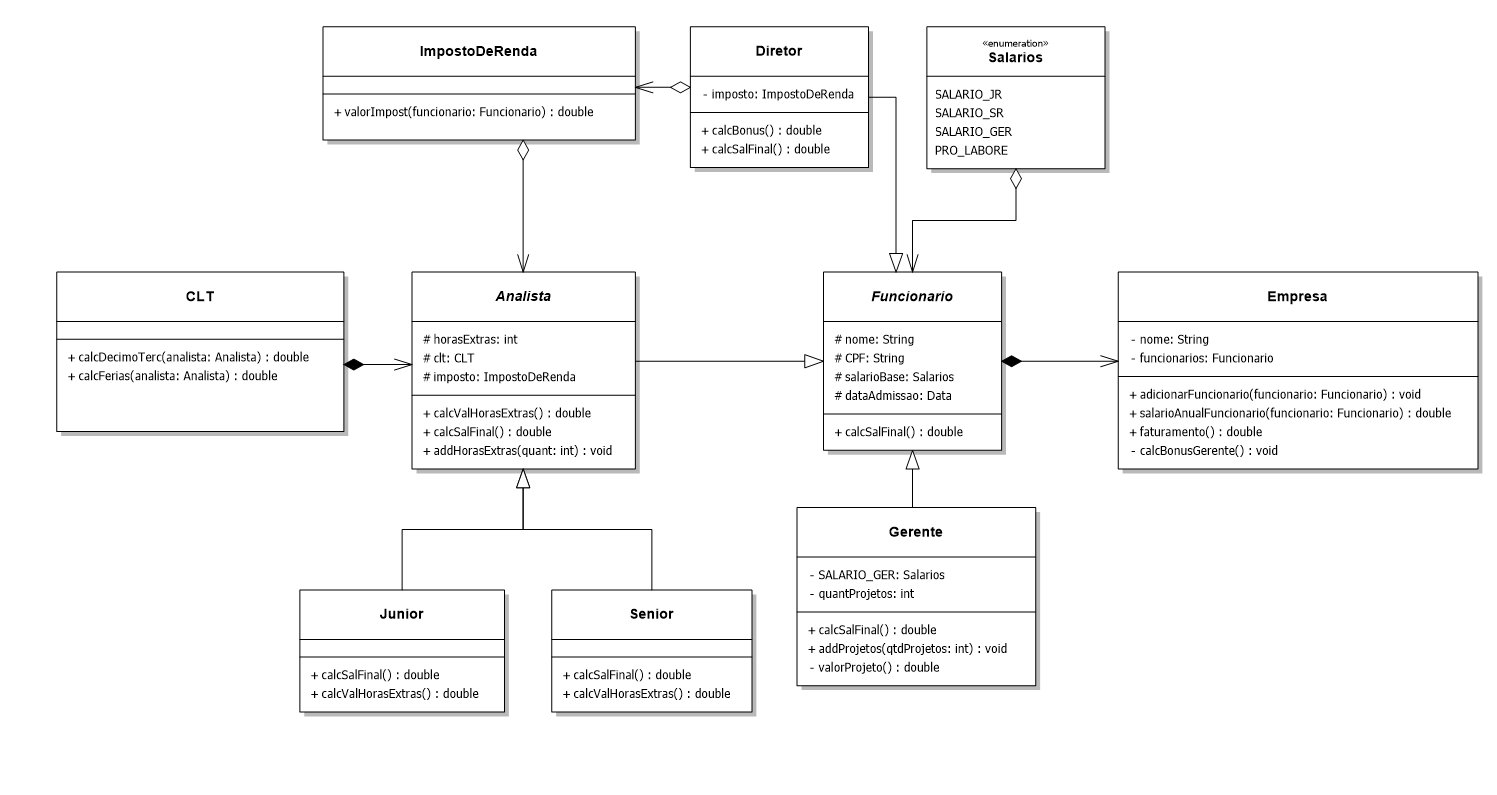
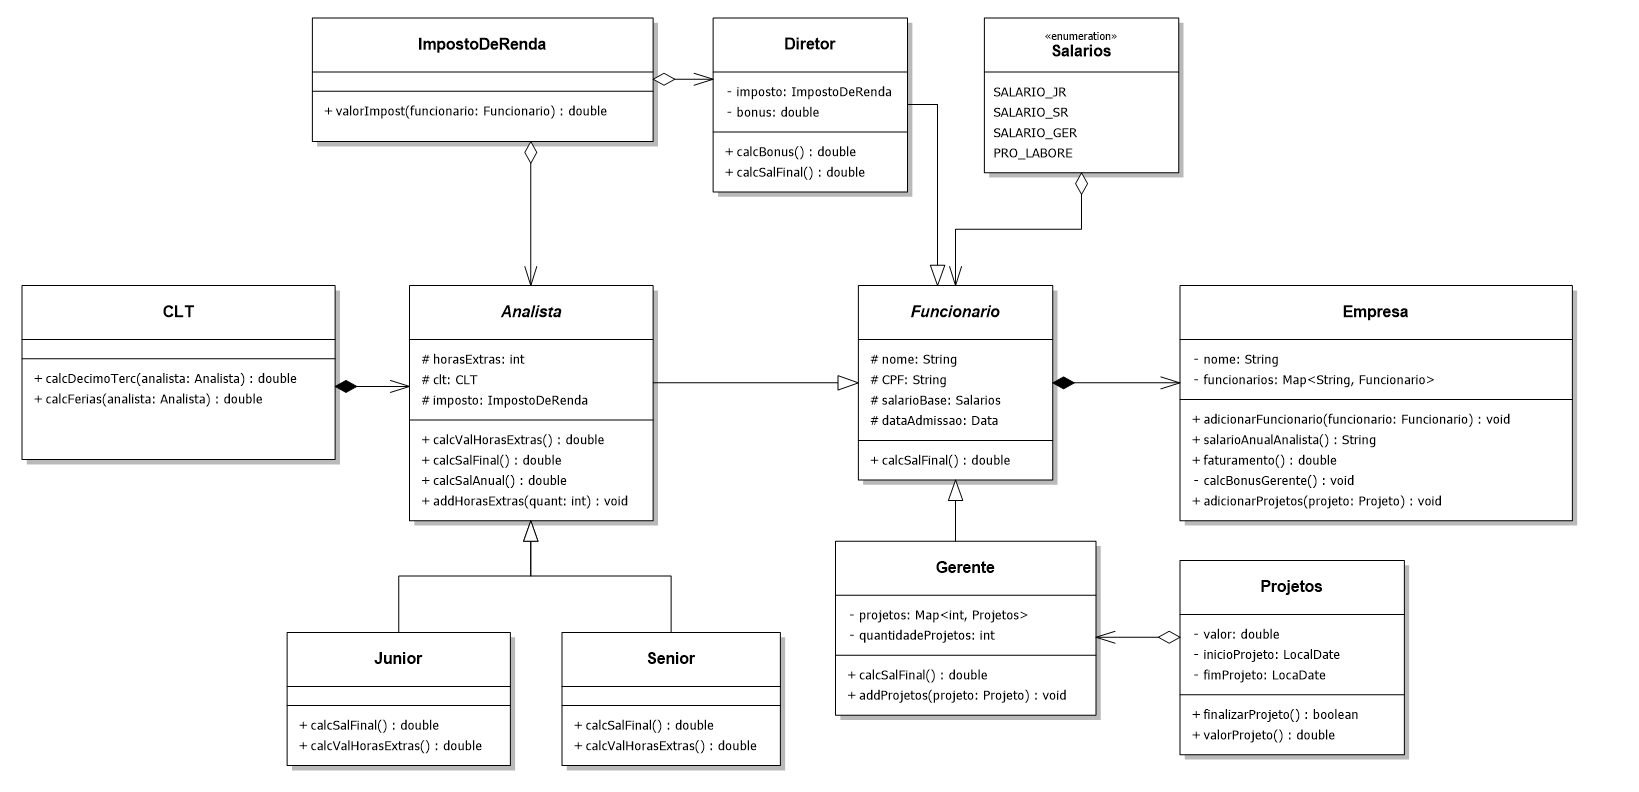
feat:adicionandofuncaoSalarioAnualeCriandoClasseProjeto

Changed region(s): [[0.0, 0.2727, 1.0, 1.0], [0.1844, 0.0303, 0.7682, 0.2727], [0.7682, 0.7273, 0.7989, 0.7576]]

diff --git a/TrabEmpresaSoft/app.java b/TrabEmpresaSoft/app.java
@@ -23,7 +23,7 @@ public class app {
                     exibirMenu(software);
                     break;
                 case 2:
-                    mostrarRelatorios(software);
+                    mostrarRelatorios(software, teclado);
                     break;
                 case 3:
                     System.out.println("Encerrando o programa...");
@@ -103,9 +103,34 @@ public class app {
             System.out.println("Funcionário do tipo Analista Senior adicionado!");
         }
 
-        public static void mostrarRelatorios(Empresa software) {
-            System.out.println("Relatórios:");
-            System.out.println(software); 
+        public static void mostrarRelatorios(Empresa software, Scanner teclado) {
+            int opcao;
+            do {
+                System.out.println("Menu de Relatórios:");
+                System.out.println("1. Relatório de Funcionários");
+                System.out.println("2. Salário anual dos Analistas");
+                System.out.println("3. Retornar ao Menu Principal");
+                System.out.print("Escolha uma opção: ");
+    
+                opcao = teclado.nextInt();
+                teclado.nextLine();
+    
+                switch (opcao) {
+                    case 1:
+                        System.out.println("Relatório de Funcionários:");
+                        System.out.println(software);
+                        break;
+                    case 2:
+                        System.out.println(software.salarioAnualAnalista());
+                        break;
+                    case 3:
+                        System.out.println("Retornando ao Menu Principal...");
+                        return;
+                    default:
+                        System.out.println("Opção inválida! Tente novamente.");
+                        break;
+                }
+            } while (opcao != 4);
         }
     
 }

diff --git a/TrabEmpresaSoft/Empresa.java b/TrabEmpresaSoft/Empresa.java
@@ -29,8 +29,26 @@ public class Empresa {
         for (Funcionario funcionario : funcionarios.values()) {
             faturamento -= funcionario.calcSalFinal() * 12.0;
         }
-        calcBonusGer();     
+        calcBonusGer();
         return faturamento;
+    }
+
+    public String salarioAnualAnalista() {
+        StringBuilder relatorio = new StringBuilder();
+        for (Funcionario funcionario : funcionarios.values()) {
+            if (funcionario instanceof Junior) {
+                Junior junior = (Junior) funcionario;
+                relatorio.append("Salario Anual de um Analista Junior: ").append(String.format("%.2f", junior.calcSalarioAnual()))
+                        .append("\n");
+            }
+
+            if (funcionario instanceof Senior) {
+                Senior senior = (Senior) funcionario;
+                relatorio.append("Salario Anual de um Analista Senior: ").append(String.format("%.2f", senior.calcSalarioAnual()))
+                        .append("\n");
+            }
+        }
+        return relatorio.toString();
     }
 
     @Override
@@ -38,13 +56,13 @@ public class Empresa {
         StringBuilder dados = new StringBuilder();
         dados.append("============ ").append(nome.toUpperCase()).append(" ============\n");
         dados.append(String.format("%-20s%-10s%-15s\n", "CPF", "NOME", "SALÁRIO FINAL"));
-    
+
         for (Funcionario funcionario : funcionarios.values()) {
-            dados.append(String.format("%-20s%-10s%-15.2f\n", funcionario.getCPF(), funcionario.nome, funcionario.calcSalFinal()));
+            dados.append(String.format("%-20s%-10s%-15.2f\n", funcionario.getCPF(), funcionario.nome,
+                    funcionario.calcSalFinal()));
         }
-    
+
         return dados.toString();
     }
-    
-}
 
+}

diff --git a/TrabEmpresaSoft/Gerente.java b/TrabEmpresaSoft/Gerente.java
@@ -1,7 +1,8 @@
-
+import java.util.Map;
 
 public class Gerente extends Funcionario {
-;
+
+	private Map<Integer, Projeto> projetos;
 	private int quantProjetos;
 
 	public Gerente(String nome, String CPF){
@@ -10,18 +11,20 @@ public class Gerente extends Funcionario {
 		this.quantProjetos = 0;
 	}
 
-	public int addProjetos(int projeto){
-		quantProjetos += projeto;
-		return quantProjetos;
-	}
-
-	private double valorProjeto(){
-		return 400.00 * quantProjetos;
+	public void addProjetos(Projeto projeto){
+		this.projetos.put(quantProjetos, projeto);
+		quantProjetos++;
 	}
 
 	@Override
-	public double calcSalFinal() {
-		return salarioBase.getValor() + valorProjeto();
-	}
+    public double calcSalFinal() {
+        double valorTotalProjetos = 0.0;
+		if(projetos != null){
+        for (Projeto projeto : projetos.values()) {
+            valorTotalProjetos += projeto.valorProjeto();
+        }
+		}
+        return salarioBase.getValor() + valorTotalProjetos;
+    }
 
 }

diff --git a/TrabEmpresaSoft/Projeto.java b/TrabEmpresaSoft/Projeto.java
@@ -1,0 +1,29 @@
+import java.time.LocalDate;
+
+public class Projeto {
+    private double valorProjeto;
+    private LocalDate dataInicio;
+    private LocalDate dataFim;
+
+    public Projeto (){
+        this.dataInicio = LocalDate.now();
+        valorProjeto = 0;
+    }
+
+    private boolean finalizarProjeto(){
+        dataFim = LocalDate.now();
+            if (dataFim.isAfter(dataInicio)) {
+                return true; 
+            } else {
+                return false;
+            }
+        }
+
+    public double valorProjeto(){
+        if(finalizarProjeto()){
+            valorProjeto = 200.00;
+            return valorProjeto;
+        }
+        return valorProjeto;
+    }
+}

diff --git a/TrabEmpresaSoft/Analista.java b/TrabEmpresaSoft/Analista.java
@@ -1,7 +1,7 @@
 public abstract class Analista extends Funcionario {
 
 	protected int horasExtras;
-	protected CLT clt;
+	protected CLT clt = new CLT();
 	protected ImpostoDeRenda imposto = new ImpostoDeRenda();
 
 	public Analista(String nome, String CPF){
@@ -13,6 +13,10 @@ public abstract class Analista extends Funcionario {
 	public double calcValHorasExtras() {
 		double valorHoras = horasExtras * (calcSalFinal() * 0.10);
 		return valorHoras;
+	}
+
+	public double calcSalarioAnual(){
+		return ((salarioBase.getValor() - imposto.valorImpost(this)) * 12) + clt.calcDecimoTerc(this) + clt.calcFerias(this);
 	}
 
 	@Override

diff --git a/TrabEmpresaSoft/Diretor.java b/TrabEmpresaSoft/Diretor.java
@@ -2,6 +2,7 @@
 
 public class Diretor extends Funcionario {
 
+	private ImpostoDeRenda imposto = new ImpostoDeRenda();
 	private double bonus;
 
 	public Diretor(String nome, String CPF){
@@ -18,7 +19,7 @@ public class Diretor extends Funcionario {
 
 	@Override	
 	public double calcSalFinal() {
-		return salarioBase.getValor() + bonus;
+		return (salarioBase.getValor() + bonus) - imposto.valorImpost(this);
 	}
 
 }

diff --git a/TrabEmpresaSoft/Senior.java b/TrabEmpresaSoft/Senior.java
@@ -9,6 +9,8 @@ public class Senior extends Analista {
 		this.salarioBase = Salarios.SALARIO_SR;
 	}
 
+	
+
 	@Override
 	public double calcValHorasExtras() {
 		double valorHoras = horasExtras * (salarioBase.getValor() * 0.10);
